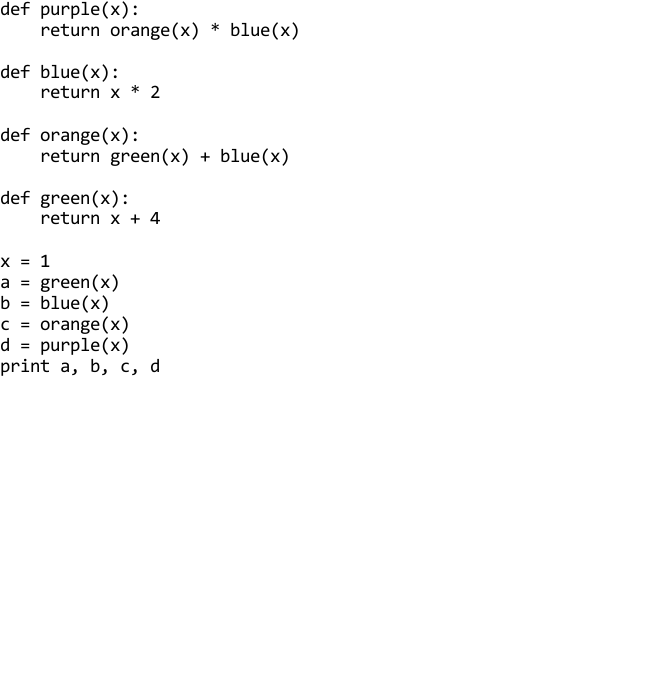
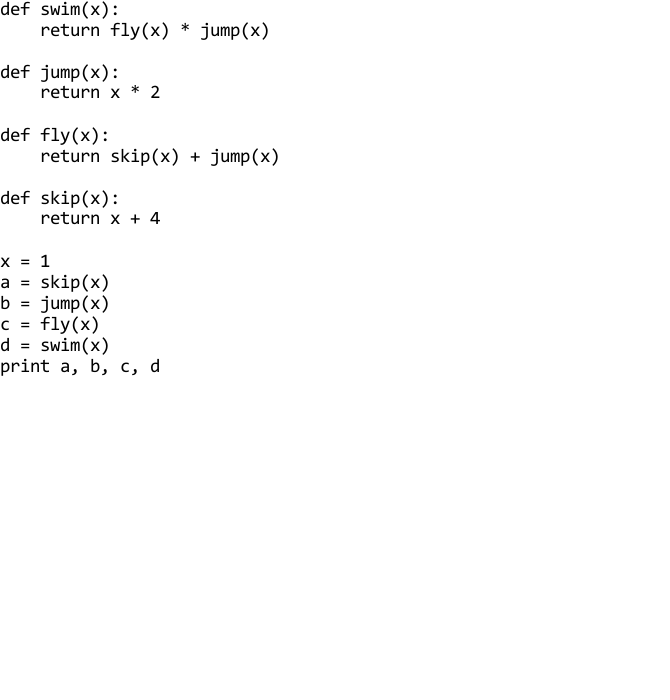
Added new basketball and order programs

diff --git a/render_program.py b/render_program.py
@@ -13,7 +13,7 @@ if __name__ == "__main__":
     parser.add_argument("--lineoffset", type=int, default=2)
     parser.add_argument("--baseimage", type=str, default="")
     parser.add_argument("--header", type=str, default="")
-    parser.add_argument("--colors", type=str, default="")
+    parser.add_argument("--line_colors", type=str, default=None)
     args = parser.parse_args()
 
     program_lines = [line.rstrip() for line in open(args.program_path, "r")]
@@ -32,21 +32,18 @@ if __name__ == "__main__":
     y_offset = args.yoffset
     line_height = args.fontsize + args.lineoffset
     header = False
-    colors = None
     id_regex = re.compile("[a-zA-Z_]+|[+*=]")
 
-    if len(args.colors) > 0:
-        colors = [line.rstrip() for line in open(args.colors, "r")]
-    
     if len(args.header) > 0:
         program_lines = [args.header] + program_lines
         header = True
 
-    for line in program_lines:
-        color_line = None
-        if colors is not None:
-            color_line = colors[0]
-            colors = colors[1:]
+    line_colors = []
+    if args.line_colors is not None:
+        import ast
+        line_colors = ast.literal_eval(args.line_colors)
+
+    for line_idx, line in enumerate(program_lines):
         if line.strip():
             if header:
                 draw.rectangle([(0, 0), (args.width, line_height - 2)], fill=black)
@@ -54,18 +51,12 @@ if __name__ == "__main__":
                 draw.text(((args.width / 2) - (size[0] / 2), y_offset), line, white, font=font)
                 header = False
             else:
-                # No header
-                if color_line is None:
-                    # All black text
-                    draw.text((args.xoffset, y_offset), line, black, font=font)
-                else:
-                    x = args.xoffset
-                    print id_regex.split(line)
-                    for word, w_colors in zip(id_regex.split(line), color_line.split(" ")):
-                        color = w_colors[0]
-                        if color in color_map:
-                            draw.text((x, y_offset), word, color_map[color], font=font)
-                        x += draw.textsize(word + " ", font=font)[0]
+                if line_idx < len(line_colors):
+                    lc = line_colors[line_idx]
+                    if len(lc) > 0:
+                        draw.rectangle([(0, y_offset), (args.width, y_offset + line_height - 1)], fill=lc)
+
+                draw.text((args.xoffset, y_offset), line, black, font=font)
             
         # Next line
         y_offset += line_height

diff --git a/programs/basketball_iterative_flipped.py b/programs/basketball_iterative_flipped.py
@@ -1,17 +1,16 @@
-def t(heights):
-    temp = []
-    for i in range(1, len(heights)):
-        temp.append(heights[i])
-    return temp
-
 def bball_sub(heights, counter, team):
-    if not ((counter == 5) or (len(heights) == 0)):
+    while not ((counter == 5) or (len(heights) == 0)):
         height = heights[0]
         heights = t(heights)
         if height > 180:
             team[counter] = height
             counter += 1
-        bball_sub(heights, counter, team)
+
+def t(heights):
+    temp = []
+    for i in range(1, len(heights)):
+        temp.append(heights[i])
+    return temp
 
 counter = 0
 team = [0, 0, 0, 0, 0]

diff --git a/eyecode2/app/__init__.py b/eyecode2/app/__init__.py
@@ -180,10 +180,10 @@ class QualificationResults(db.Model):
 
 program_versions = {
     #"boolean"    : ["easy", "hard"],
-    "basketball" : ["iterative", "recursive"],
+    "basketball" : ["iterative", "recursive", "iterative_flipped"],
     "between"    : ["functions", "inline"],
     "counting"   : ["done", "other"],
-    "order"      : ["inorder", "shuffled"],
+    "order"      : ["inorder", "shuffled", "shuffled_colors"],
     "nanotech"   : ["comments", "nocomments"],
     "overload"   : ["numbers", "words"],
     "rectangle"  : ["long", "short"],

diff --git a/programs/basketball_iterative.py b/programs/basketball_iterative.py
@@ -1,4 +1,4 @@
-def tail(heights):
+def t(heights):
     temp = []
     for i in range(1, len(heights)):
         temp.append(heights[i])
@@ -7,7 +7,7 @@ def tail(heights):
 def bball_sub(heights, counter, team):
     while not ((counter == 5) or (len(heights) == 0)):
         height = heights[0]
-        heights = tail(heights)
+        heights = t(heights)
         if height > 180:
             team[counter] = height
             counter += 1

diff --git a/programs/order_inorder.py b/programs/order_inorder.py
@@ -1,18 +1,18 @@
-def green(x):
+def skip(x):
     return x + 4
 
-def blue(x):
+def jump(x):
     return x * 2
 
-def orange(x):
-    return green(x) + blue(x)
+def fly(x):
+    return skip(x) + jump(x)
 
-def purple(x):
-    return orange(x) * blue(x)
+def swim(x):
+    return fly(x) * jump(x)
 
 x = 1
-a = green(x)
-b = blue(x)
-c = orange(x)
-d = purple(x)
+a = skip(x)
+b = jump(x)
+c = fly(x)
+d = swim(x)
 print a, b, c, d

diff --git a/programs/order_shuffled.py b/programs/order_shuffled.py
@@ -1,18 +1,18 @@
-def purple(x):
-    return orange(x) * blue(x)
+def swim(x):
+    return fly(x) * jump(x)
 
-def blue(x):
+def jump(x):
     return x * 2
 
-def orange(x):
-    return green(x) + blue(x)
+def fly(x):
+    return skip(x) + jump(x)
 
-def green(x):
+def skip(x):
     return x + 4
 
 x = 1
-a = green(x)
-b = blue(x)
-c = orange(x)
-d = purple(x)
+a = skip(x)
+b = jump(x)
+c = fly(x)
+d = swim(x)
 print a, b, c, d

diff --git a/programs/overload_words.py b/programs/overload_words.py
@@ -3,17 +3,9 @@ b = "t"
 print a + b
 
 c = "g"
-b = "a"
-print b + c
+d = "a"
+print c + d
 
-a = "t"
-c = "p"
-print c + b
-
-b = "h"
-c = "s"
-print b + a
-
-b = "5"
-a = "3"
-print b + a
+e = "5"
+f = "3"
+print e + f

diff --git a/programs/overload_numbers.py b/programs/overload_numbers.py
@@ -3,17 +3,9 @@ b = 5
 print a + b
 
 c = 9
-b = 4
-print b + c
+d = 4
+print c + d
 
-a = 10
-c = 11
-print c + b
-
-b = 7
-c = 8
-print b + a
-
-b = "5"
-a = "3"
-print b + a
+e = "5"
+f = "3"
+print e + f
